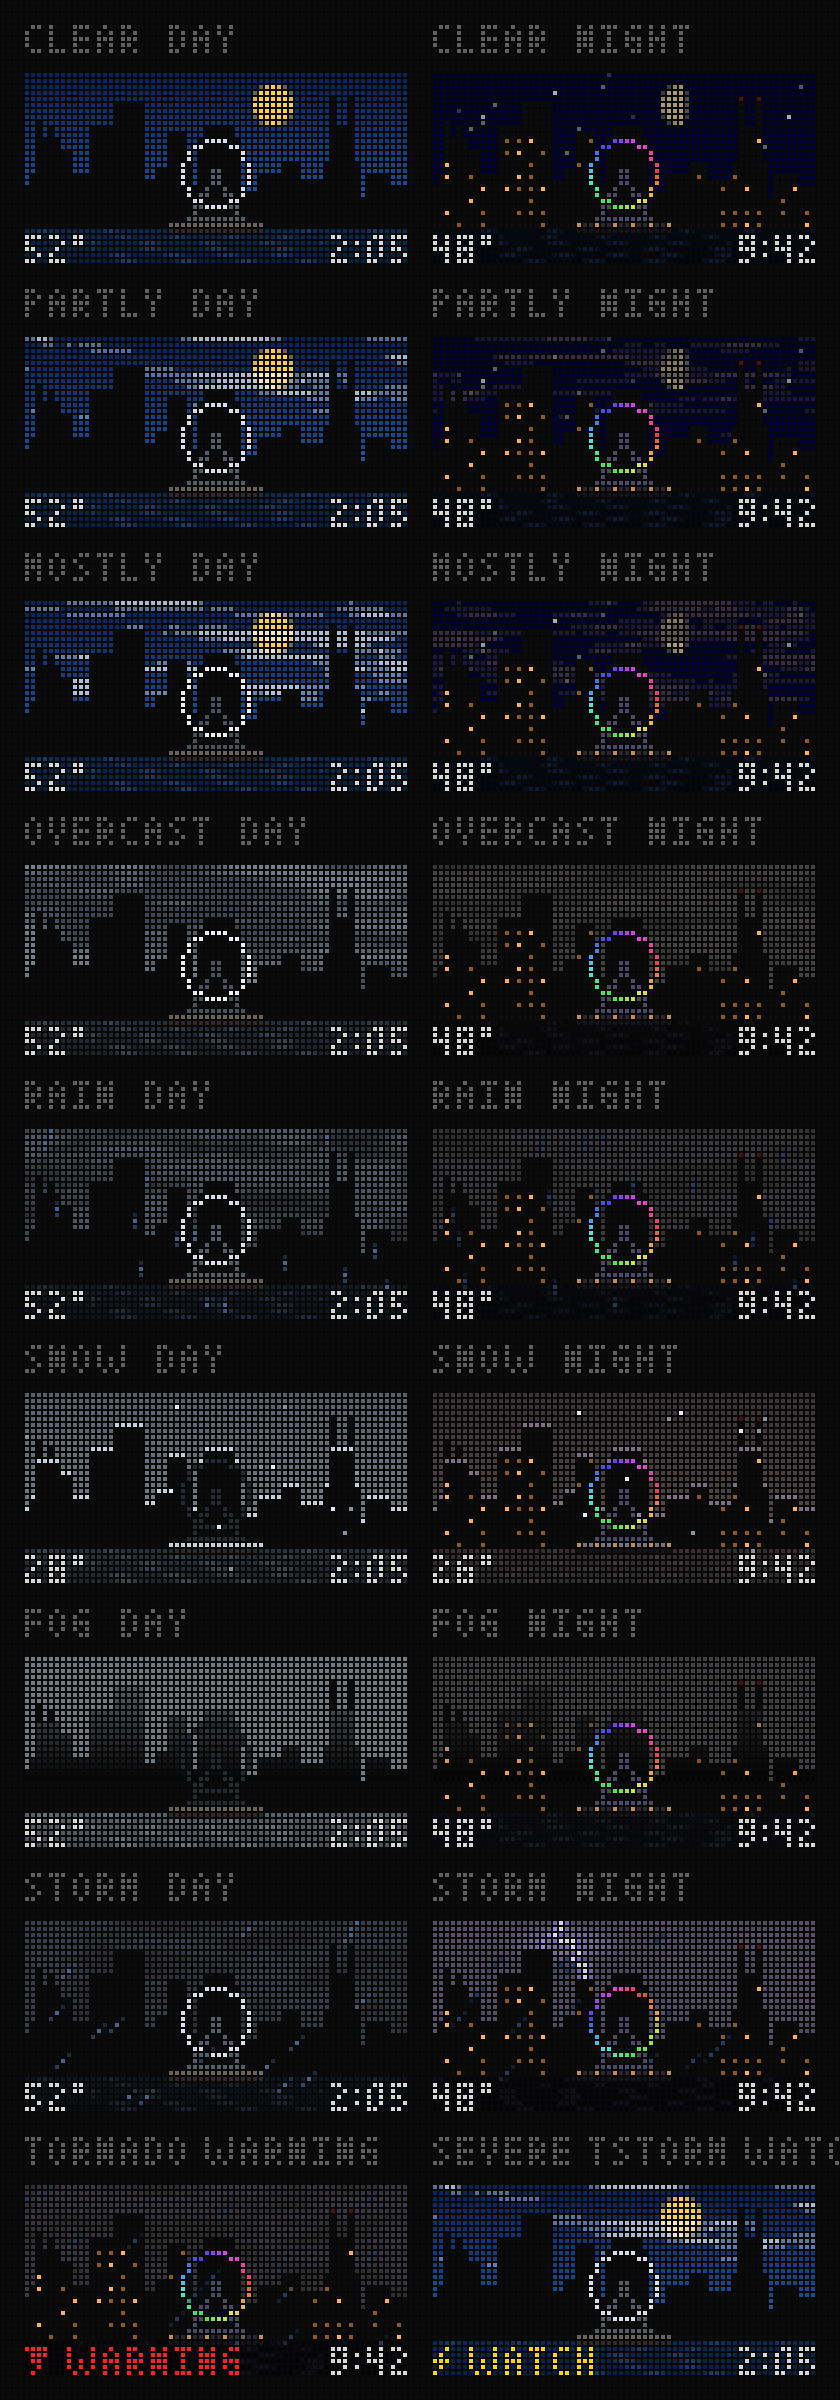
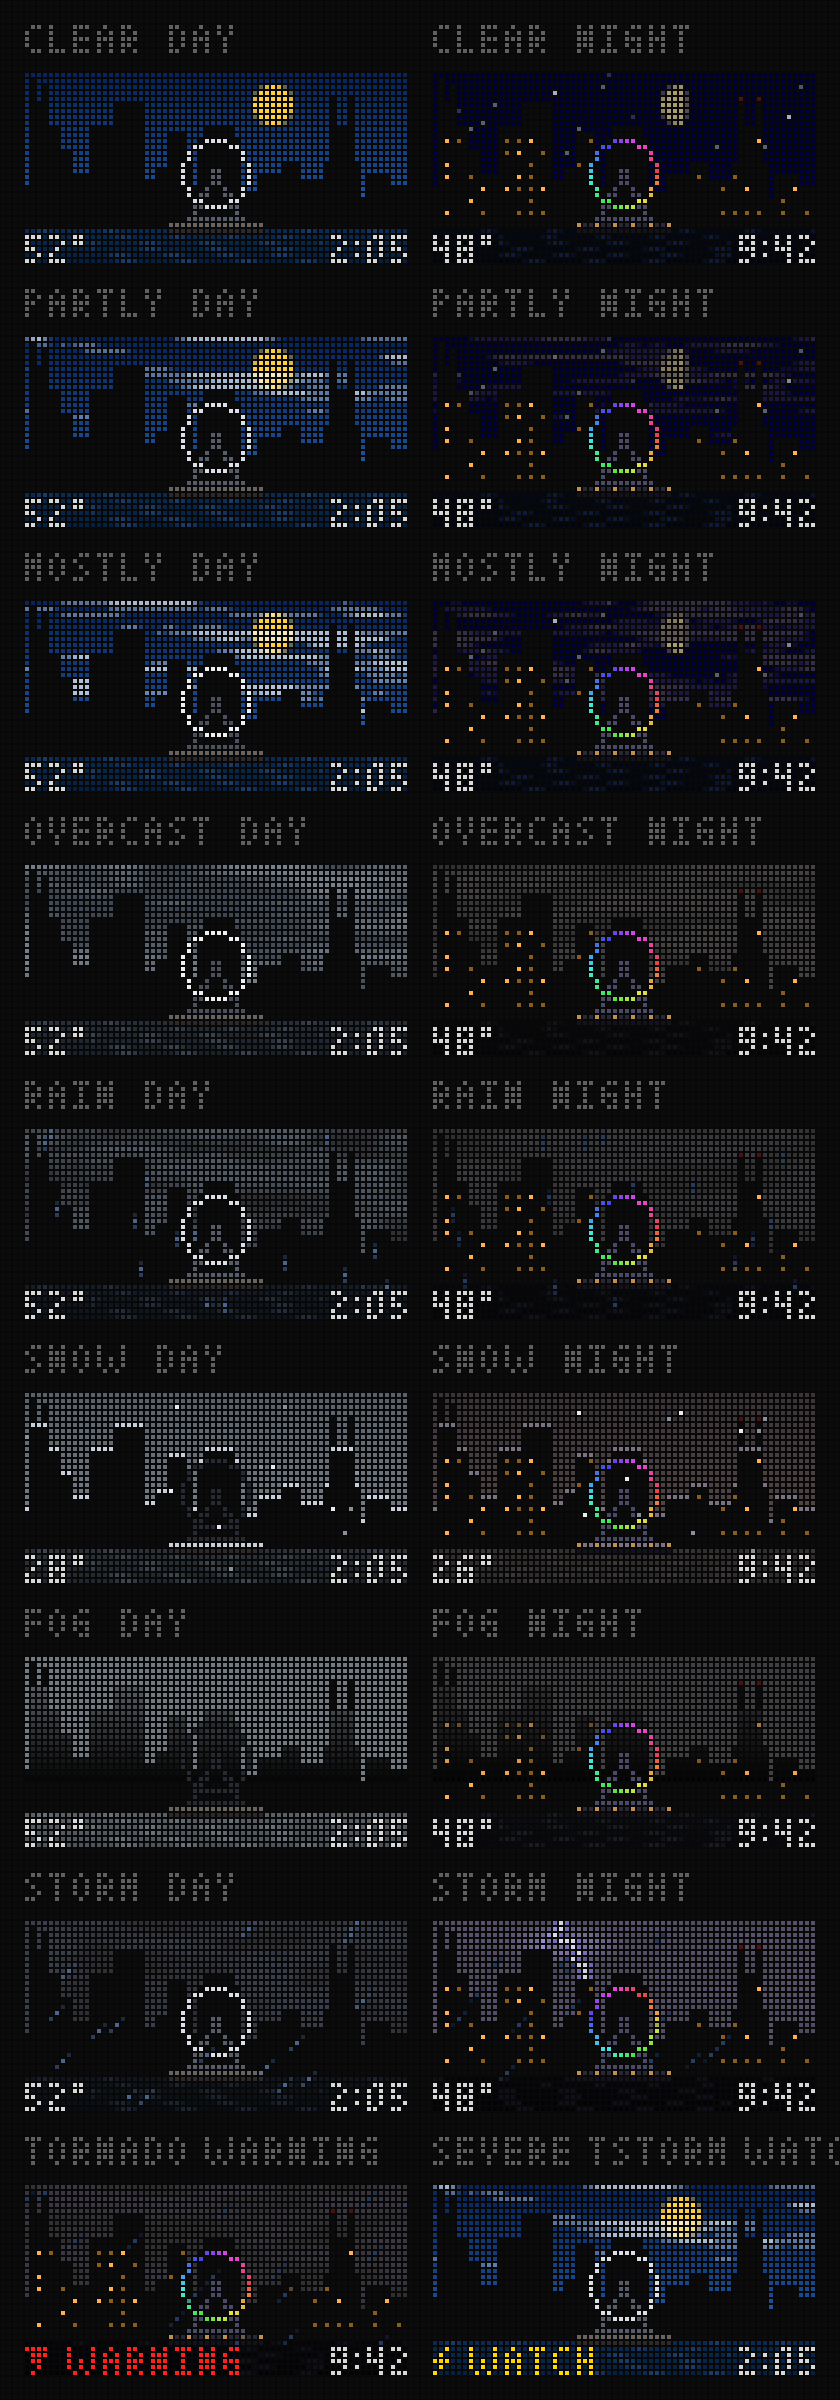
Skyline: staircase Willis, no shore-row lights, spaced stars, 128 spires
- Willis redrawn as a bold staircase stepping down to the right
  (21/17/13/9 rows) with twin antennas on its top step; not to scale,
  so it reads at panel size.
- No windows on the shore row (25), so no light sits on the water.
- Stars never touch another star, corner to corner included.
- 128 panorama: the two narrow single-antenna towers widened to 5 px,
  antennas removed.
- draw.cpp matches (parity test passes); specs and previews updated.

Claude-Session: https://claude.ai/code/session_01G1nRX32weAadH6UdYe7fBF

diff --git a/server/board/draw.js b/server/board/draw.js
@@ -2300,7 +2300,7 @@
         .forEach(([x, w, h]) => rect(x + O, w, top(h), 1));
       for (const [x, w, h, r] of cfg.extra) if (r === 1) rect(x, w, top(h), 1);
       for (const [x, w, h, r] of cfg.extra) if (r === 2) rect(x, w, top(h), 2);
-      rect(1 + O, 1, top(9), 2); rect(2 + O, 4, top(15), 2); rect(6 + O, 2, top(13), 2); rect(8 + O, 2, top(9), 2);   // Willis, setbacks down to the right
+      rect(1 + O, 3, top(21), 2); rect(4 + O, 2, top(17), 2); rect(6 + O, 2, top(13), 2); rect(8 + O, 2, top(9), 2);  // Willis: a staircase down to the right
       rect(11 + O, 4, top(17), 2);                                                                                     // Aon
       rect(15 + O, 5, top(21), 2);                                                                                     // St. Regis
       rect(23 + O, 5, top(10), 2); rect(24 + O, 4, top(13), 2); rect(24 + O, 3, top(16), 2);                           // Trump
@@ -2309,13 +2309,14 @@
         for (let y = t; y <= SHORE; y++) { const w = steps[Math.min(2, Math.floor((y - t) * 3 / (SHORE - t + 1)))]; for (let i = 53 + O - w / 2; i < 53 + O + w / 2; i++) role[y * W + i] = 2; } }
       const isB = (x, y) => x >= 0 && x < W && y >= 0 && y <= SHORE && role[y * W + x] !== 0;
       // Antennas [x, top row, roof row, beacon]: Willis's two, Hancock's twin with beacons.
-      const ants = [[2 + O, top(18), top(15), 0], [4 + O, top(17), top(15), 0], [51 + O, top(22), top(17), 1], [54 + O, top(22), top(17), 1],
+      const ants = [[1 + O, top(25), top(21), 0], [3 + O, top(24), top(21), 0], [51 + O, top(22), top(17), 1], [54 + O, top(22), top(17), 1],
         ...cfg.ants.map(([x, t, roof, bc]) => [x, top(t), top(roof), bc])];
       // Window slots: even columns, odd rows, under another building pixel,
-      // clear of the pier (x 19-44, rows 19 and below) and the wheel.
+      // clear of the pier (x 19-44, rows 19 and below) and the wheel, and
+      // none on the shore row (no lights sitting on the water).
       // [x, y, threshold 0-999, bright]
       const wins = [];
-      for (let y = 1; y <= SHORE; y++) for (let x = 0; x < W; x++) {
+      for (let y = 1; y < SHORE; y++) for (let x = 0; x < W; x++) {
         const r = role[y * W + x];
         if (!r || (r === 1 && x < 38 + O) || (x >= 19 + O && x <= 44 + O && y >= SHORE - 6)) continue;
         const dx = x + 0.5 - CX, dy = y + 0.5 - CY;
@@ -2323,12 +2324,13 @@
         wins.push([x, y, ih(x, y, 5) % 1000, ih(x, y, 9) % 10 < 3]);
       }
       // Stars: the first 14 (wide: 28) hash positions in the top 14 rows that miss the
-      // buildings, the moon's spot, the Hancock antennas and the wheel. [x, y, bright, twinkles, phase 0-999, period ms]
+      // buildings, the moon's spot, the Hancock antennas and the wheel, and
+      // touch no other star (not even corner to corner). [x, y, bright, twinkles, phase 0-999, period ms]
       const stars = [];
       for (let i = 0; stars.length < cfg.stars && i < cfg.stars * 1000 / 14; i++) {
         const x = ih(i, 1, 3) % W, y = ih(i, 2, 3) % 14;
         const dx = x + 0.5 - CX, dy = y + 0.5 - CY;
-        if (isB(x, y) || (x > 35 + O && x < 49 + O && y < 11) || (x >= 50 + O && x <= 55 + O && y < 10) || dx * dx + dy * dy < 90.25 || stars.some((s) => s[0] === x && s[1] === y)) continue;
+        if (isB(x, y) || (x > 35 + O && x < 49 + O && y < 11) || (x >= 50 + O && x <= 55 + O && y < 10) || dx * dx + dy * dy < 90.25 || stars.some((s) => Math.abs(s[0] - x) <= 1 && Math.abs(s[1] - y) <= 1)) continue;
         stars.push([x, y, ih(i, 3, 3) % 10 < 3, ih(i, 4, 3) % 2 === 1, ih(i, 5, 3) % 1000, [4000, 6000, 12000][stars.length % 3]]);
       }
       // Wheel: hard-edged shapes, a pixel on when at least half covered (6x6
@@ -2368,12 +2370,12 @@
       extra: [
         // Left: the South Loop.
         [0, 5, 6, 1], [5, 4, 8, 1], [10, 3, 5, 1], [13, 5, 7, 1], [18, 4, 9, 1], [22, 3, 6, 1], [25, 4, 8, 1], [29, 3, 6, 1],
-        [2, 3, 11, 2], [7, 3, 16, 2], [14, 3, 13, 2], [20, 4, 10, 2], [26, 3, 12, 2],
+        [2, 3, 11, 2], [6, 5, 16, 2], [14, 3, 13, 2], [20, 4, 10, 2], [26, 3, 12, 2],
         // Right: more towers to the edge.
         [96, 4, 8, 1], [100, 5, 10, 1], [105, 4, 7, 1], [109, 5, 9, 1], [114, 4, 8, 1], [118, 5, 10, 1], [123, 5, 8, 1],
-        [97, 3, 13, 2], [102, 4, 15, 2], [107, 3, 11, 2], [111, 4, 16, 2], [116, 3, 12, 2], [120, 4, 14, 2], [125, 3, 12, 2],
+        [97, 3, 13, 2], [102, 4, 15, 2], [107, 3, 11, 2], [110, 5, 16, 2], [116, 3, 12, 2], [120, 4, 14, 2], [125, 3, 12, 2],
       ],
-      ants: [[8, 19, 16, 0], [112, 19, 16, 0]],  // [x, top rows, roof rows, beacon]
+      ants: [],  // [x, top rows, roof rows, beacon]
     });
     // Integer hash (32-bit, wraps the same in JS and C++).
     function ih(a, b, c) {

diff --git a/server/board/skyline-draw.test.js b/server/board/skyline-draw.test.js
@@ -263,7 +263,8 @@ test('clouds: drawn from the strip once it is on hand, gliding 1 px every 4 s, b
   const c0 = later(t0), c1 = later(t0 + 4000), half = later(t0 + 2000);
   let between = 0;
   for (let x = 0; x < 20; x++) {
-    if (SKY.role[2 * 64 + x] || SKY.role[2 * 64 + x + 1]) continue;
+    const mast = (X) => SKY.ants.some(([ax, t, roof]) => ax === X && 2 >= t && 2 < roof);
+    if (SKY.role[2 * 64 + x] || SKY.role[2 * 64 + x + 1] || mast(x) || mast(x + 1)) continue;
     assert.equal(px(c1, x, 2), px(c0, x + 1, 2));
     const [a, b, h] = [c0.get(x, 2), c0.get(x + 1, 2), half.get(x, 2)];
     for (let k = 0; k < 3; k++) assert.ok(h[k] >= Math.min(a[k], b[k]) && h[k] <= Math.max(a[k], b[k]), `x ${x}: ${h} between ${a} and ${b}`);

diff --git a/firmware-s3/ctaboard/src/draw.cpp b/firmware-s3/ctaboard/src/draw.cpp
@@ -3102,14 +3102,13 @@ static std::vector<std::pair<int, int>> cover(int CX, F test) {
   return out;
 }
 
-// The wide panorama's extra buildings [x, width, rows, role] and antennas
-// [x, top rows, roof rows, beacon] (draw.js SKYW).
+// The wide panorama's extra buildings [x, width, rows, role] (draw.js SKYW;
+// no antennas of its own).
 static const int WIDE_EXTRA[][4] = {
     {0, 5, 6, 1}, {5, 4, 8, 1}, {10, 3, 5, 1}, {13, 5, 7, 1}, {18, 4, 9, 1}, {22, 3, 6, 1}, {25, 4, 8, 1}, {29, 3, 6, 1},
-    {2, 3, 11, 2}, {7, 3, 16, 2}, {14, 3, 13, 2}, {20, 4, 10, 2}, {26, 3, 12, 2},
+    {2, 3, 11, 2}, {6, 5, 16, 2}, {14, 3, 13, 2}, {20, 4, 10, 2}, {26, 3, 12, 2},
     {96, 4, 8, 1}, {100, 5, 10, 1}, {105, 4, 7, 1}, {109, 5, 9, 1}, {114, 4, 8, 1}, {118, 5, 10, 1}, {123, 5, 8, 1},
-    {97, 3, 13, 2}, {102, 4, 15, 2}, {107, 3, 11, 2}, {111, 4, 16, 2}, {116, 3, 12, 2}, {120, 4, 14, 2}, {125, 3, 12, 2}};
-static const int WIDE_ANTS[][4] = {{8, 19, 16, 0}, {112, 19, 16, 0}};
+    {97, 3, 13, 2}, {102, 4, 15, 2}, {107, 3, 11, 2}, {110, 5, 16, 2}, {116, 3, 12, 2}, {120, 4, 14, 2}, {125, 3, 12, 2}};
 
 static void build(Geometry &g, bool wide) {
   g.W = wide ? 128 : 64;
@@ -3124,7 +3123,7 @@ static void build(Geometry &g, bool wide) {
     for (const auto &e : WIDE_EXTRA) if (e[3] == 1) rect(g, e[0], e[1], top(e[2]), 1);
     for (const auto &e : WIDE_EXTRA) if (e[3] == 2) rect(g, e[0], e[1], top(e[2]), 2);
   }
-  rect(g, 1 + O, 1, top(9), 2); rect(g, 2 + O, 4, top(15), 2); rect(g, 6 + O, 2, top(13), 2); rect(g, 8 + O, 2, top(9), 2);  // Willis
+  rect(g, 1 + O, 3, top(21), 2); rect(g, 4 + O, 2, top(17), 2); rect(g, 6 + O, 2, top(13), 2); rect(g, 8 + O, 2, top(9), 2);  // Willis
   rect(g, 11 + O, 4, top(17), 2);                                                                                             // Aon
   rect(g, 15 + O, 5, top(21), 2);                                                                                             // St. Regis
   rect(g, 23 + O, 5, top(10), 2); rect(g, 24 + O, 4, top(13), 2); rect(g, 24 + O, 3, top(16), 2);                             // Trump
@@ -3136,10 +3135,8 @@ static void build(Geometry &g, bool wide) {
       for (int i = 53 + O - w / 2; i < 53 + O + w / 2; i++) g.role[y * W + i] = 2;
     }
   }
-  g.ants = {{2 + O, top(18), top(15), false}, {4 + O, top(17), top(15), false}, {51 + O, top(22), top(17), true}, {54 + O, top(22), top(17), true}};
-  if (wide)
-    for (const auto &a : WIDE_ANTS) g.ants.push_back({a[0], top(a[1]), top(a[2]), a[3] != 0});
-  for (int y = 1; y <= SHORE; y++)
+  g.ants = {{1 + O, top(25), top(21), false}, {3 + O, top(24), top(21), false}, {51 + O, top(22), top(17), true}, {54 + O, top(22), top(17), true}};
+  for (int y = 1; y < SHORE; y++)  // none on the shore row
     for (int x = 0; x < W; x++) {
       int r = g.role[y * W + x];
       if (!r || (r == 1 && x < 38 + O) || (x >= 19 + O && x <= 44 + O && y >= SHORE - 6)) continue;
@@ -3154,7 +3151,7 @@ static void build(Geometry &g, bool wide) {
     int x = (int)(ih(i, 1, 3) % W), y = (int)(ih(i, 2, 3) % 14);
     double dx = x + 0.5 - CX, dy = y + 0.5 - CY;
     bool dup = false;
-    for (const Star &st : g.stars) dup = dup || (st.x == x && st.y == y);
+    for (const Star &st : g.stars) dup = dup || (std::abs(st.x - x) <= 1 && std::abs(st.y - y) <= 1);  // no touching stars
     if (g.isB(x, y) || (x > 35 + O && x < 49 + O && y < 11) || (x >= 50 + O && x <= 55 + O && y < 10) || dx * dx + dy * dy < 90.25 || dup) continue;  // not between the Hancock antennas
     g.stars.push_back({x, y, ih(i, 3, 3) % 10 < 3, ih(i, 4, 3) % 2 == 1, ih(i, 5, 3) % 1000, pers[g.stars.size() % 3]});
   }

diff --git a/docs/board/design-spec.md b/docs/board/design-spec.md
@@ -492,13 +492,13 @@ Designed Oct 17, 2026; revised for the S3 Oct 31, 2026. An ambient clock face: t
 ### View
 - The viewer is on the lake on Navy Pier's axis (41.8917, -87.590), facing west. Each landmark's x is its real bearing at 1.3 px per degree (pier axis = x 32). Heights are real angular heights at 2.4 rows per degree, about 1.8× vertical exaggeration.
 - Rows 0–25 are sky and city (the shore is row 25); rows 26–31 are the lake. Row 26 is a row of open water between the skyline and the text (rows 27–31), so the two never touch.
-- Left to right: Willis (far left and small, since it's 4 km away), Aon, St. Regis (the closest supertall, so it looks tallest, as in photos from the lake), Trump, Lake Point Tower (directly behind the wheel; its top shows 2 rows above the rim, rows 9–10, a short black block that frames the wheel), Hancock. Background mass fills the gaps: the Loop on the left, Streeterville on the right. Only Willis and Hancock are drawn to be recognized; the rest are plain slabs, to keep the focal points few.
-- **Willis** is seen from the southeast, so its setbacks step down to the right (floors 66 / 108 / 90 / 66, 1 / 4 / 2 / 2 px wide). From due south only one setback shows, and it reads as a generic tower.
+- Left to right: Willis (far left; drawn tall for legibility rather than to scale), Aon, St. Regis (the closest supertall, so it looks tallest, as in photos from the lake), Trump, Lake Point Tower (directly behind the wheel; its top shows 2 rows above the rim, rows 9–10, a short black block that frames the wheel), Hancock. Background mass fills the gaps: the Loop on the left, Streeterville on the right. Only Willis and Hancock are drawn to be recognized; the rest are plain slabs, to keep the focal points few.
+- **Willis** is a staircase stepping down to the right, not to scale: 21 / 17 / 13 / 9 rows, 3 / 2 / 2 / 2 px wide, with twin antennas (4 and 3 rows) on its top step (decided Nov 27; the realistic 4 km version, 15 rows, didn't read).
 - **Hancock** has symmetric 4-6-8 px steps around x 53 and twin antennas of equal height, at full height (the text no longer sits above them).
 
 ### Buildings and lights
 - Every building, background included, and every antenna mast is unlit (black) day and night. By day they're a silhouette against the sky; at night only the windows draw the city.
-- **Night windows:** 45% of window slots (even columns, odd rows) are lit, 30% of those bright amber `#ffb050`, the rest `#8a5c20`, from a fixed seed so the pattern never changes. Background mass gets windows only right of the wheel. No windows around the pier (x 19–44, rows 19 and below) or behind the wheel, so the pier's string lights are the only amber there.
+- **Night windows:** 45% of window slots (even columns, odd rows) are lit, 30% of those bright amber `#ffb050`, the rest `#8a5c20`, from a fixed seed so the pattern never changes. Background mass gets windows only right of the wheel. No windows around the pier (x 19–44, rows 19 and below) or behind the wheel, so the pier's string lights are the only amber there, and none on the shore row (25), so no light sits right on the water.
 - **Hancock beacons:** red, night only, pulsing together: a smooth 4 s cosine between dark red `#401010` and bright red `#ff2020`, never off. Not a hard blink, since a red 1 s blink means a tornado warning (§2).
 
 ### Centennial Wheel and Navy Pier
@@ -512,7 +512,7 @@ Designed Oct 17, 2026; revised for the S3 Oct 31, 2026. An ambient clock face: t
 - **Sun (day):** a 7 px soft-edged disc `#ffd040` at x 38–44, rows 2–8.
 - **Sun (sunset):** drawn behind the city, low on the skyline, at the day's sunset bearing. Real bearings run from about 238° (December) to 302° (June), which at the skyline's 1.3 px per degree would put the sun off the panel at both ends, so the sun has its own scale: x = 32 + (bearing − 270) × 0.8, which spans x 6–58 over the year. Left of the wheel in winter, right in summer.
 - **Moon:** the day sun's spot and size, `#a89c70` (kept dimmer than the text), at its real phase, with soft edges. Shown all night whenever at least 3% is lit; it ignores moonrise and moonset (a deliberate simplification).
-- **Stars:** 14, about half twinkling (4, 6 or 12 s cycles). They stay off the buildings and the moon, out from between the Hancock antennas (a star there blurred what they were), and at least 3.5 px clear of the wheel's rim (a star beside the rim read as part of the wheel). Bright ones are a soft `#a8aebc`, not white; dim ones `#5a6070`.
+- **Stars:** 14, about half twinkling (4, 6 or 12 s cycles). They stay off the buildings and the moon, out from between the Hancock antennas (a star there blurred what they were), at least 3.5 px clear of the wheel's rim (a star beside the rim read as part of the wheel), and never touching another star, corner to corner included. Bright ones are a soft `#a8aebc`, not white; dim ones `#5a6070`.
 
 ### Water
 - A two-color gradient with faint ripple dashes drifting sideways, alternate rows in opposite directions, 1 px every 1.5 s.

diff --git a/docs/board/wide-spec.md b/docs/board/wide-spec.md
@@ -125,7 +125,7 @@ The time alone in 23-row digits (`r23`, the rounded digits of the 64 face), cent
 The weekday over the date (5x7) on the left, a divider, the time in the 23-row digits with AM/PM on the right. The widest case (`WEDNESDAY`, `12:58 PM`) uses every column. Mocked, not chosen: the date spelled out over the time, the time with a weekday/date/temperature panel, a tear-off calendar page.
 
 ### Skyline (decided Nov 5, built)
-**Panorama:** the 64 scene in the middle and a continuous skyline of generic towers on both sides, the left for the South Loop and the right running on to the edge (no Gold Coast stepping down to the lake). Sun, moon, pier, wheel and lightning stay with the 64 scene; stars, rain and snow double; clouds and boats run the whole width. Rejected: the big-clock layout (the 64 scene and open lake with the time over the water).
+**Panorama:** the 64 scene in the middle and a continuous skyline of generic towers on both sides, the left for the South Loop and the right running on to the edge (no Gold Coast stepping down to the lake). Sun, moon, pier, wheel and lightning stay with the 64 scene; stars, rain and snow double; clouds and boats run the whole width. The side towers carry no antennas (the two narrow spires were widened to 5 px and their masts removed, Nov 27). Rejected: the big-clock layout (the 64 scene and open lake with the time over the water).
 ---
 
 ## 7. Announce (built)
